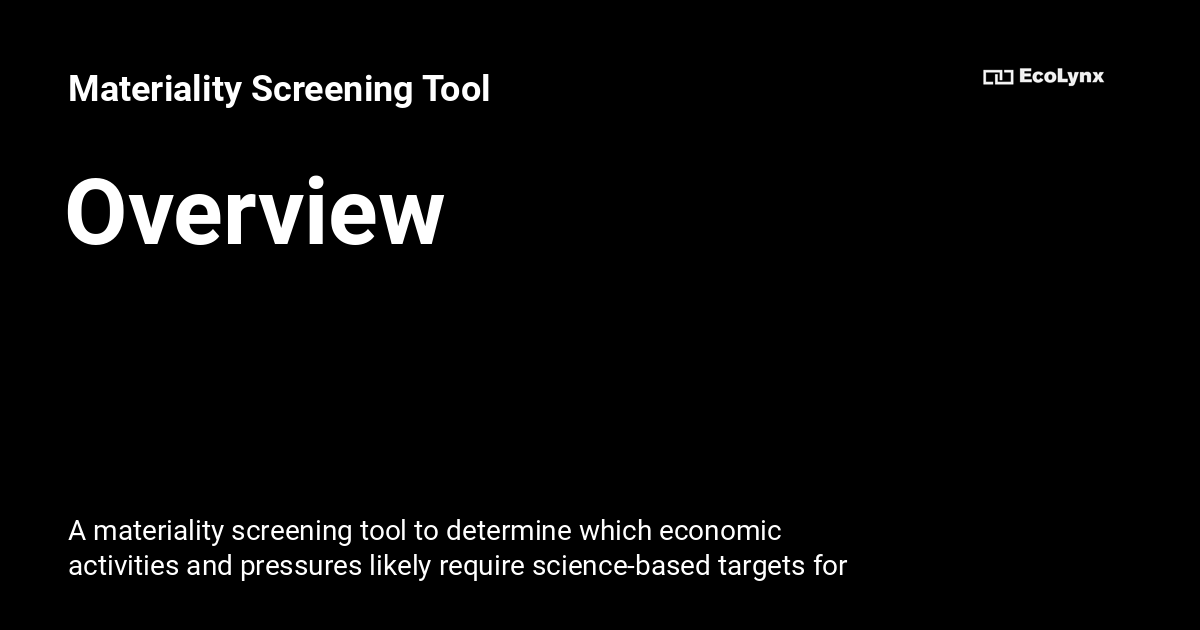
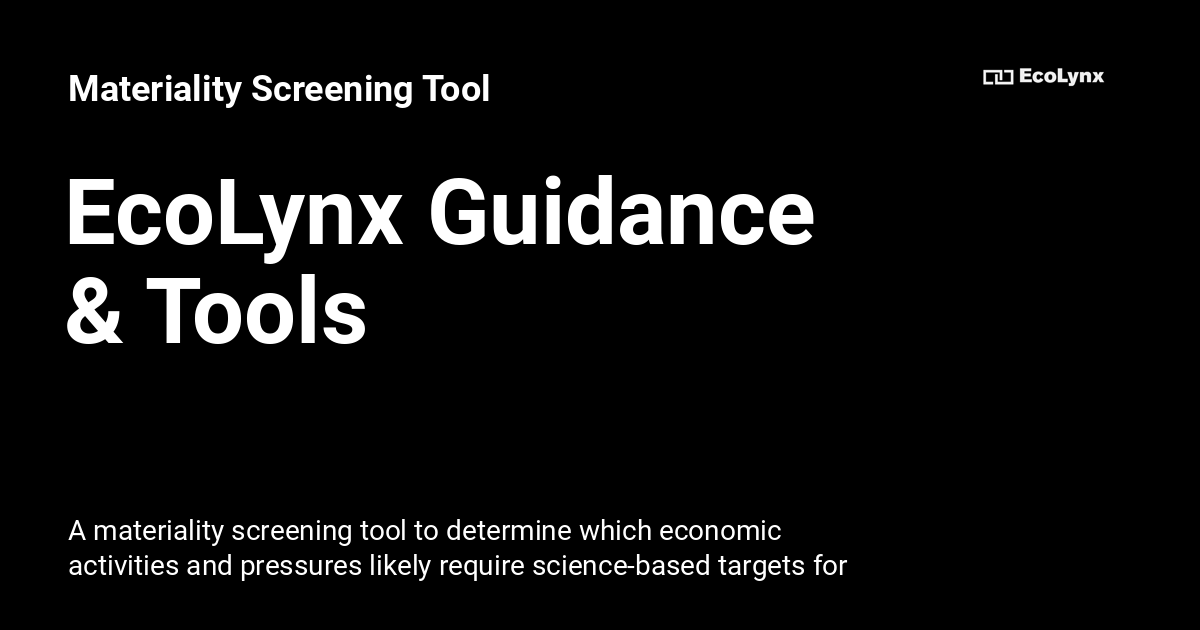
Deployed 3c9665d with MkDocs version: 1.5.2

Changed region(s): [[0.2467, 0.2714, 0.6783, 0.3921], [0.0308, 0.4222, 0.3083, 0.5429], [0.0308, 0.2714, 0.2467, 0.4222]]

diff --git a/index.html b/index.html
@@ -23,7 +23,7 @@
     
     
       
-        <title>Materiality Screening Tool</title>
+        <title>EcoLynx Guidance & Tools - Materiality Screening Tool</title>
       
     
     
@@ -105,7 +105,7 @@
       
         <meta  property="og:type"  content="website" >
       
-        <meta  property="og:title"  content="Overview" >
+        <meta  property="og:title"  content="EcoLynx Guidance & Tools" >
       
         <meta  property="og:description"  content="A materiality screening tool to determine which economic activities and pressures likely require science-based targets for nature." >
       
@@ -121,7 +121,7 @@
       
         <meta  name="twitter:card"  content="summary_large_image" >
       
-        <meta  name="twitter:title"  content="Overview" >
+        <meta  name="twitter:title"  content="EcoLynx Guidance & Tools" >
       
         <meta  name="twitter:description"  content="A materiality screening tool to determine which economic activities and pressures likely require science-based targets for nature." >
       
@@ -151,7 +151,7 @@
     <div data-md-component="skip">
       
         
-        <a href="#overview" class="md-skip">
+        <a href="#getting-started" class="md-skip">
           Skip to content
         </a>
       
@@ -185,7 +185,7 @@
         <div class="md-header__topic" data-md-component="header-topic">
           <span class="md-ellipsis">
             
-              Overview
+              EcoLynx Guidance & Tools
             
           </span>
         </div>
@@ -306,12 +306,12 @@
       
       
         <label class="md-nav__link md-nav__link--active" for="__toc">
-          Overview
+          Getting Started
           <span class="md-nav__icon md-icon"></span>
         </label>
       
       <a href="." class="md-nav__link md-nav__link--active">
-        Overview
+        Getting Started
       </a>
       
         
@@ -657,7 +657,7 @@
                   
 
 
-<h1 id="overview">Overview<a class="headerlink" href="#overview" title="Permanent link">&para;</a></h1>
+<h1 id="getting-started">Getting Started<a class="headerlink" href="#getting-started" title="Permanent link">&para;</a></h1>
 <p>This documentation is based on the <a href="https://sciencebasedtargetsnetwork.org/wp-content/uploads/2023/05/SBTN-Materiality-Screening-Tool-v1.xlsx"><abbr title="Science Based Targets Network">SBTN</abbr> Materiality Screening Tool</a> (Version: <code>v1 May 2023</code>) developed by <abbr title="United Nations Environment Programme World Conservation Monitoring Centre">UNEP-WCMC</abbr>, <abbr title="Boston Consulting Group">BCG</abbr> and <abbr title="Science Based Targets Network">SBTN</abbr>.</p>
 <!-- The aim is to help users carry out a first screening of the types of environmental impacts that are potentially materially relevant to their sector and their company's activities. -->
 

diff --git a/interpretation/index.html b/interpretation/index.html
@@ -299,7 +299,7 @@
   
     <li class="md-nav__item">
       <a href=".." class="md-nav__link">
-        Overview
+        Getting Started
       </a>
     </li>
   
@@ -766,7 +766,7 @@
       <nav class="md-footer__inner md-grid" aria-label="Footer" >
         
           
-          <a href=".." class="md-footer__link md-footer__link--prev" aria-label="Previous: Overview" rel="prev">
+          <a href=".." class="md-footer__link md-footer__link--prev" aria-label="Previous: Getting Started" rel="prev">
             <div class="md-footer__button md-icon">
               <svg xmlns="http://www.w3.org/2000/svg" viewBox="0 0 24 24"><path d="M20 11v2H8l5.5 5.5-1.42 1.42L4.16 12l7.92-7.92L13.5 5.5 8 11h12Z"/></svg>
             </div>
@@ -775,7 +775,7 @@
                 Previous
               </span>
               <div class="md-ellipsis">
-                Overview
+                Getting Started
               </div>
             </div>
           </a>

diff --git a/404.html b/404.html
@@ -262,7 +262,7 @@
   
     <li class="md-nav__item">
       <a href="/." class="md-nav__link">
-        Overview
+        Getting Started
       </a>
     </li>
   

diff --git a/alternative/index.html b/alternative/index.html
@@ -294,7 +294,7 @@
   
     <li class="md-nav__item">
       <a href=".." class="md-nav__link">
-        Overview
+        Getting Started
       </a>
     </li>
   

diff --git a/attribution/index.html b/attribution/index.html
@@ -299,7 +299,7 @@
   
     <li class="md-nav__item">
       <a href=".." class="md-nav__link">
-        Overview
+        Getting Started
       </a>
     </li>
   

diff --git a/base-data-materiality-rule/index.html b/base-data-materiality-rule/index.html
@@ -295,7 +295,7 @@
   
     <li class="md-nav__item">
       <a href=".." class="md-nav__link">
-        Overview
+        Getting Started
       </a>
     </li>
   

diff --git a/definitions/index.html b/definitions/index.html
@@ -299,7 +299,7 @@
   
     <li class="md-nav__item">
       <a href=".." class="md-nav__link">
-        Overview
+        Getting Started
       </a>
     </li>
   

diff --git a/direct-operations/index.html b/direct-operations/index.html
@@ -295,7 +295,7 @@
   
     <li class="md-nav__item">
       <a href=".." class="md-nav__link">
-        Overview
+        Getting Started
       </a>
     </li>
   

diff --git a/full-materiality-dataset/index.html b/full-materiality-dataset/index.html
@@ -299,7 +299,7 @@
   
     <li class="md-nav__item">
       <a href=".." class="md-nav__link">
-        Overview
+        Getting Started
       </a>
     </li>
   

diff --git a/license/index.html b/license/index.html
@@ -297,7 +297,7 @@
   
     <li class="md-nav__item">
       <a href=".." class="md-nav__link">
-        Overview
+        Getting Started
       </a>
     </li>
   

diff --git a/limitations/index.html b/limitations/index.html
@@ -294,7 +294,7 @@
   
     <li class="md-nav__item">
       <a href=".." class="md-nav__link">
-        Overview
+        Getting Started
       </a>
     </li>
   

diff --git a/materiality-screening-tool/index.html b/materiality-screening-tool/index.html
@@ -299,7 +299,7 @@
   
     <li class="md-nav__item">
       <a href=".." class="md-nav__link">
-        Overview
+        Getting Started
       </a>
     </li>
   
